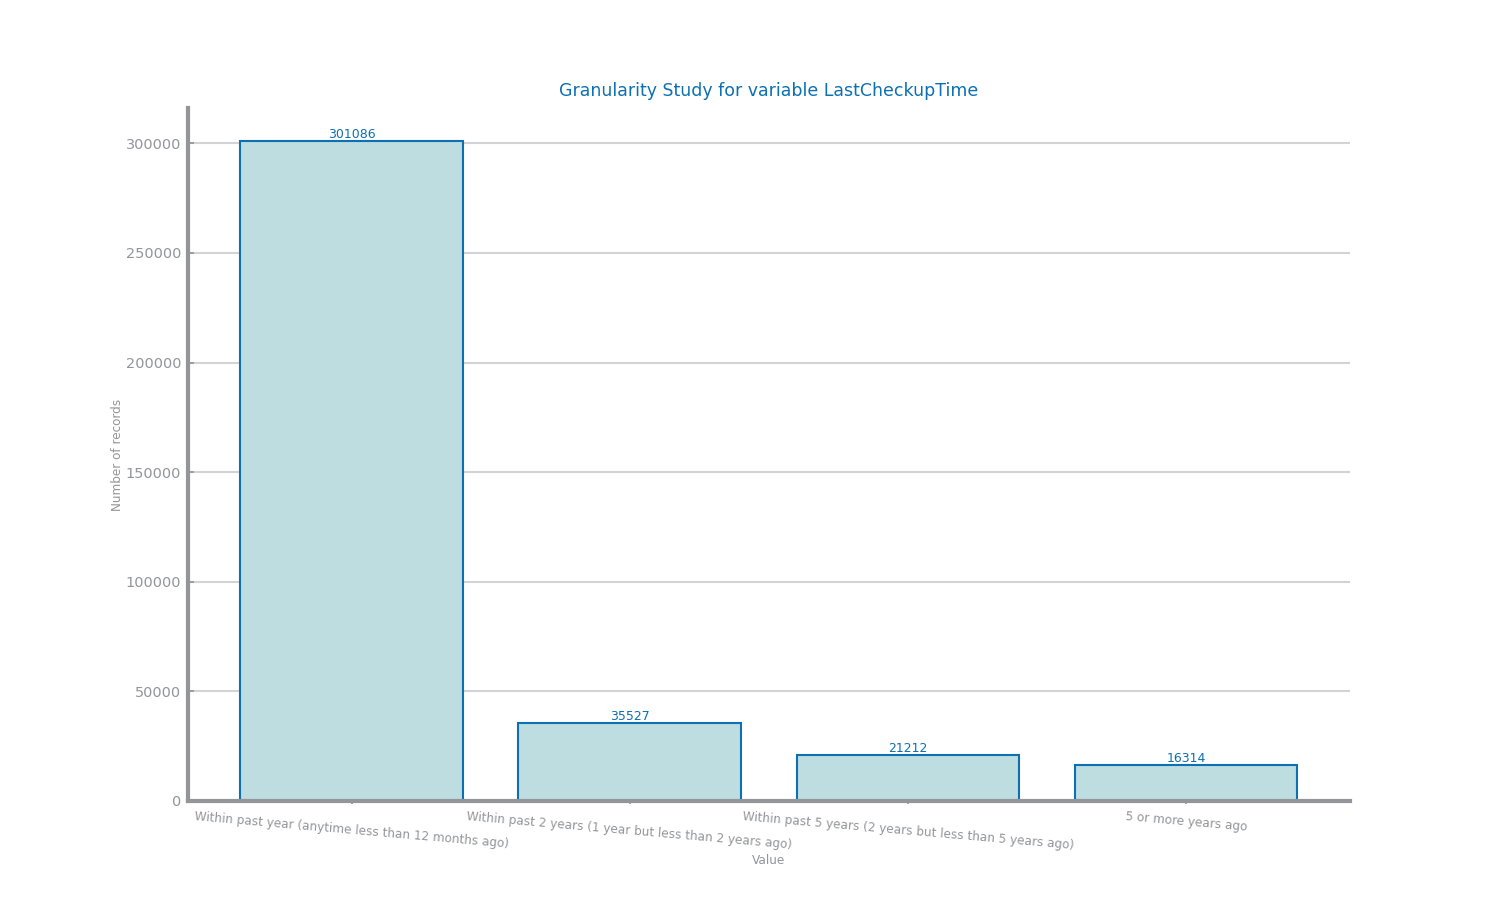
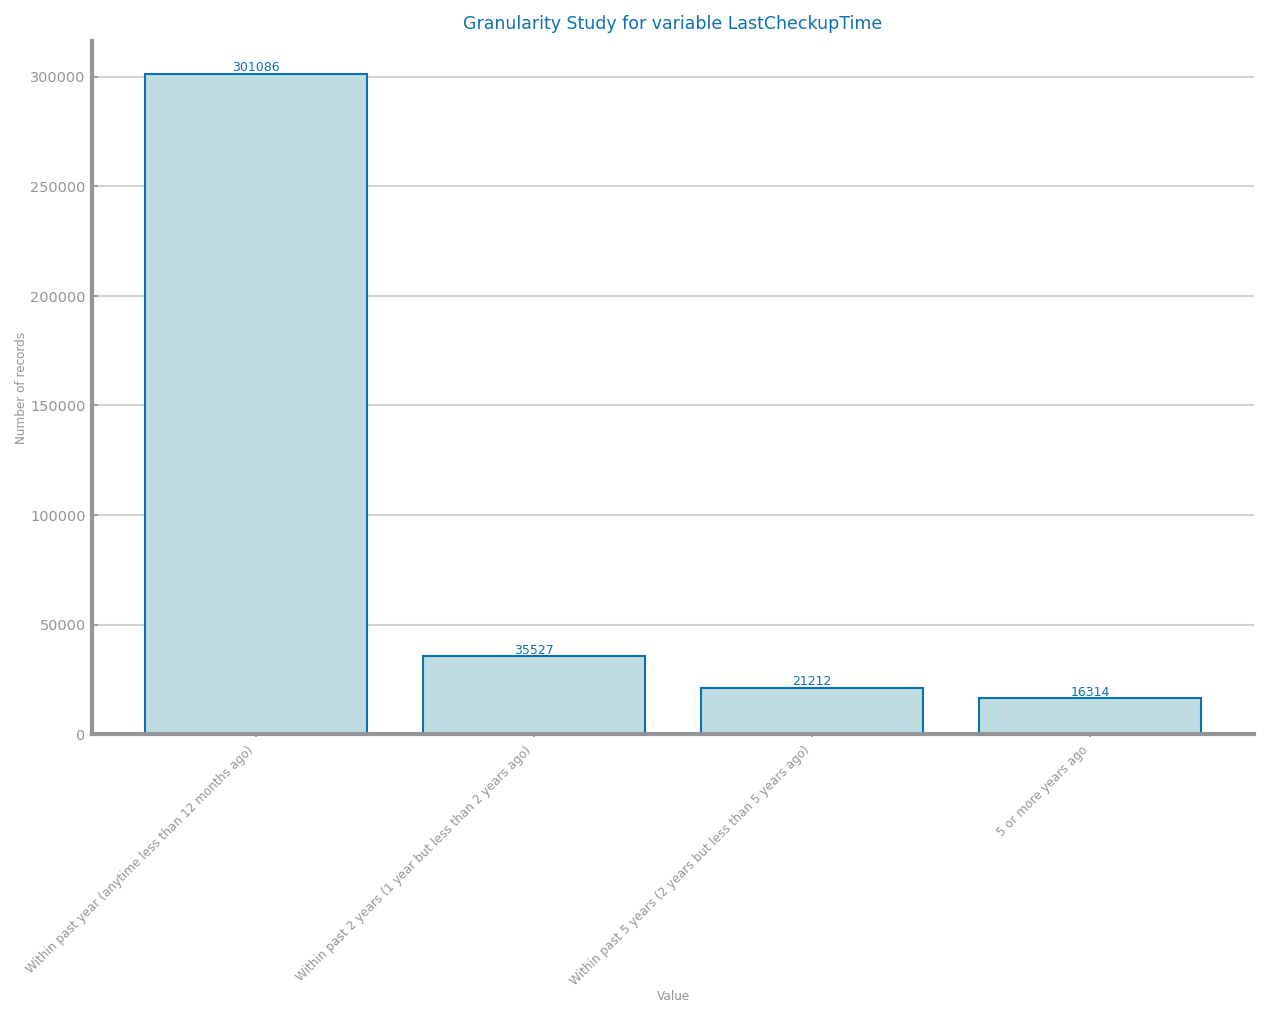
Updated 2.1 and it's image

diff --git a/dataset_1/code/2.1-granularity.py b/dataset_1/code/2.1-granularity.py
@@ -21,8 +21,8 @@ value_counts = data[column_to_plot].value_counts()
 # Chamar a função de plotagem de gráfico de barras
 plt.figure(figsize=(10, 6))
 plot_bar_chart(value_counts.index, value_counts.values, title='Granularity Study for variable LastCheckupTime', xlabel='Value', ylabel='Number of records')
-
-plt.savefig(f"../images/{file_tag}_study_for_granularity.png")
+plt.xticks(rotation=45, ha='right')  # Ajuste de rotação
+plt.savefig(f"../images/{file_tag}_study_for_granularity.png", bbox_inches='tight')
 
 # Mostrar o gráfico
 plt.show()
